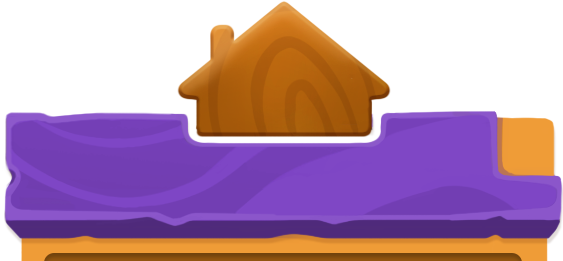
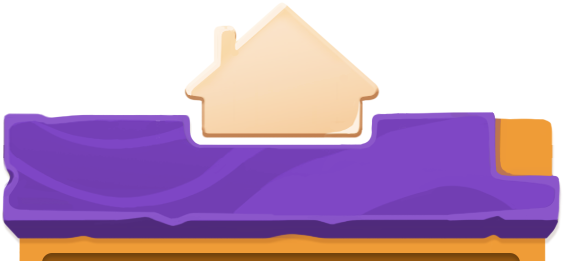
add new check and sprite

diff --git a/src/scripts/general/interval.ts b/src/scripts/general/interval.ts
@@ -478,6 +478,20 @@ function updateMapNative(): void {
   const sheepCount: number = this.state.sheepNativeCount.reduce((prev, cur) => prev += cur);
   const chickenCount: number = this.state.chickenNativeCount.reduce((prev, cur) => prev += cur);
   const cowCount: number = this.state.cowNativeCount.reduce((prev, cur) => prev += cur);
+
+  const checkSocial: boolean[] = [];
+  const socialTask: IsociaTasks = this.state.platform === 'vk' ? this.state.vkTask : 
+  {
+    joinGroup: true,
+    subGroup: true,
+    subNative: true,
+    addFavorites: false,
+  };
+  for (const key in socialTask) {
+    checkSocial.push(socialTask[key]);
+  }
+  const socialCount: number = checkSocial.length - checkSocial.filter(el => el).length;
+
   const count: number = this.state.farm === 'Sheep' ? chickenCount + cowCount : 
   this.state.farm === 'Chicken' ? sheepCount + cowCount : 
   this.state.farm === 'Cow' ? sheepCount + chickenCount : 0;

diff --git a/src/scripts/components/modal/TasksWindow.ts b/src/scripts/components/modal/TasksWindow.ts
@@ -261,13 +261,13 @@ export default class TasksWindow {
     // Остальной текст
     this.scene.add.text(this.scene.cameras.main.centerX, centerY - Math.floor(height / 2 + 200), this.scene.state.modal.tasksParams.part, {
       font: '72px Shadow',
-      fill: '#FFFFFF'
-    }).setOrigin(0.5, 0.5).setShadow(2, 2, 'rgba(0, 0, 0, 0.5)', 5);
+      fill: '#166c00'
+    }).setOrigin(0.5, 0.5);
 
     this.scene.add.text(this.scene.cameras.main.centerX, centerY - Math.floor(height / 2 + 150), this.scene.state.lang.part, {
       font: '34px Shadow',
-      fill: '#FFFFFF'
-    }).setOrigin(0.5, 0.5).setShadow(2, 2, 'rgba(0, 0, 0, 0.5)', 5);
+      fill: '#166c00'
+    }).setOrigin(0.5, 0.5);
 
     this.scene.add.text(this.scene.cameras.main.centerX, centerY - Math.floor(height / 2 + 78), this.scene.state.modal.tasksParams.name, {
       font: '32px Shadow',
